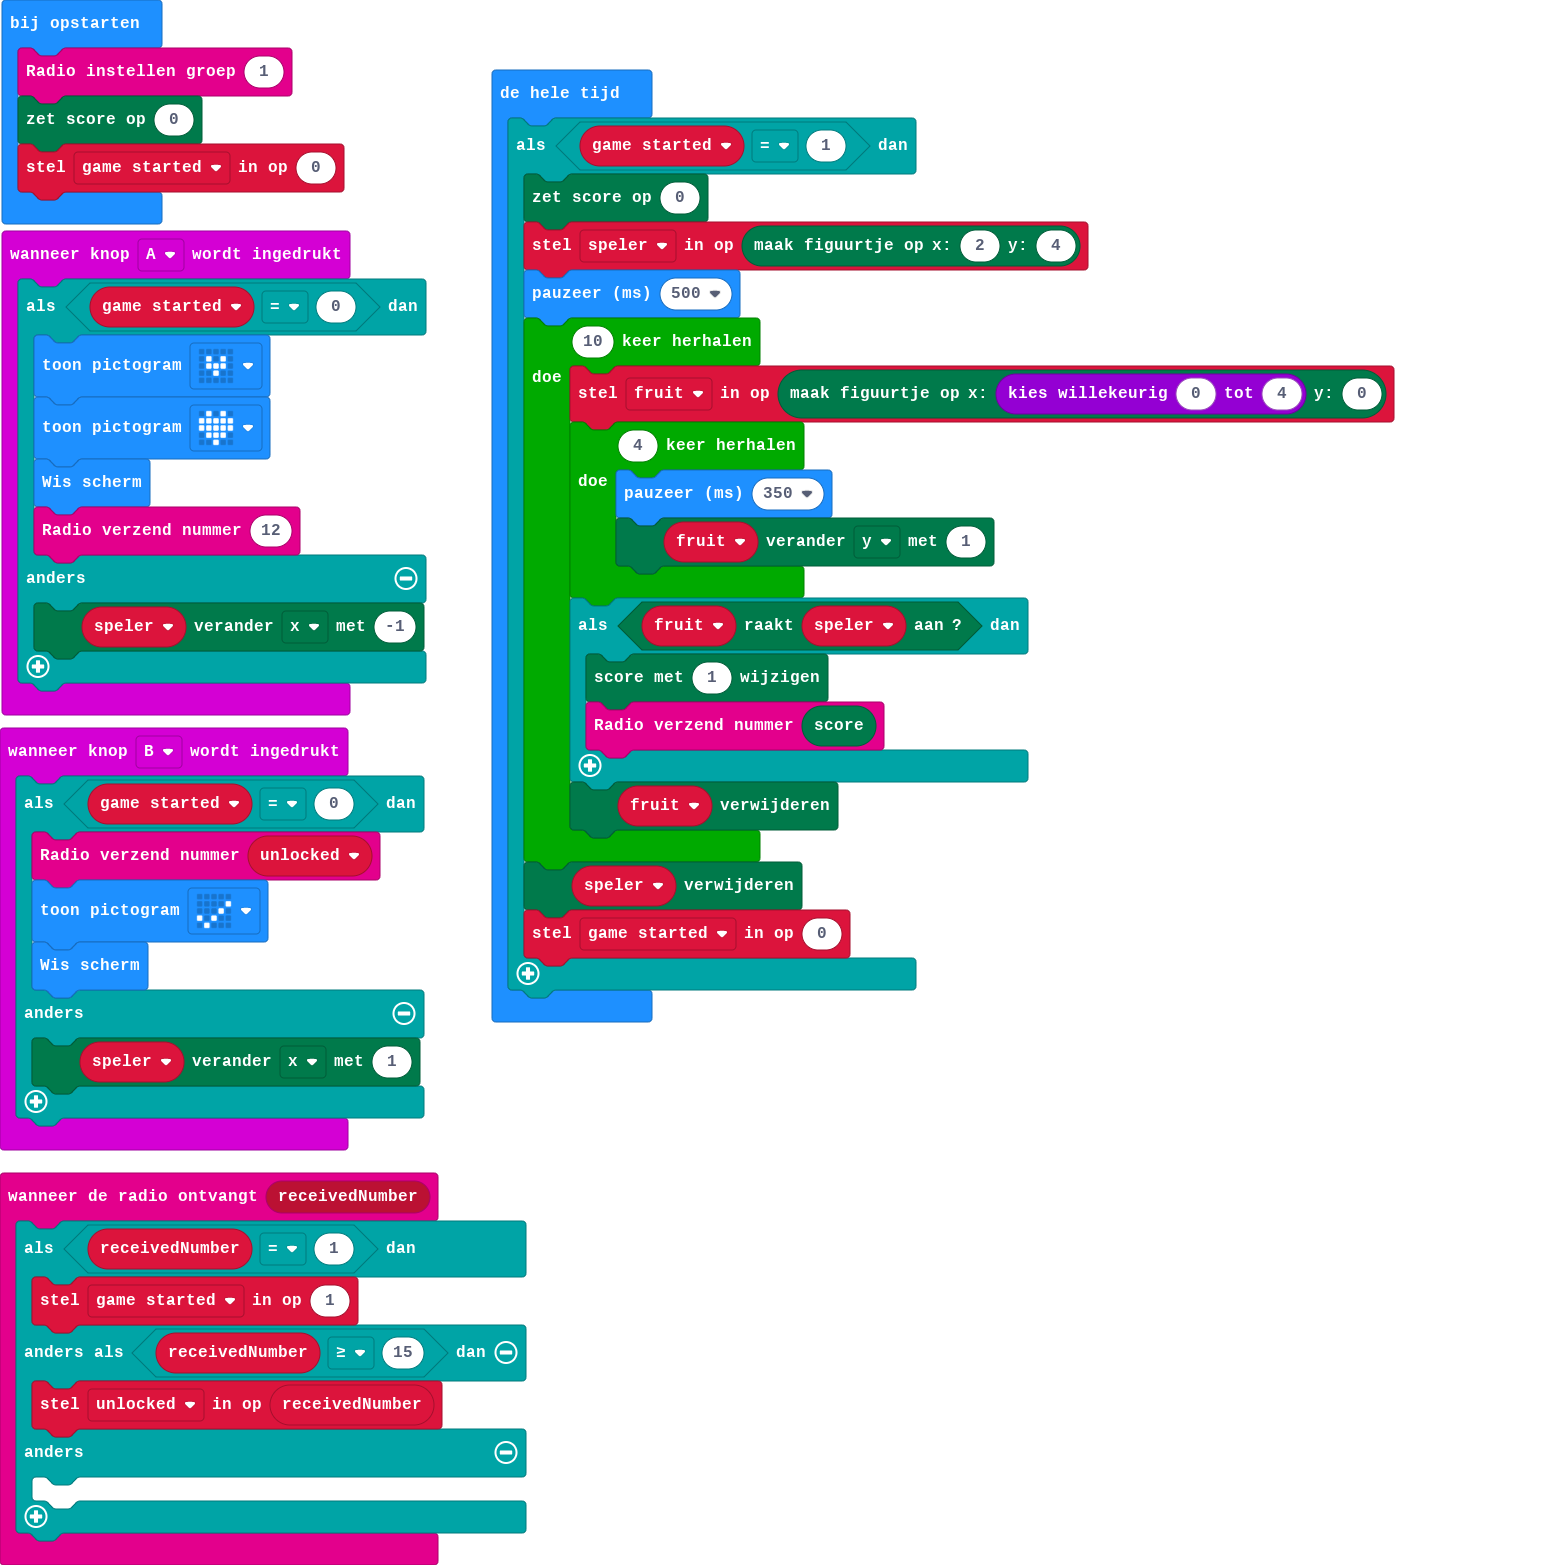
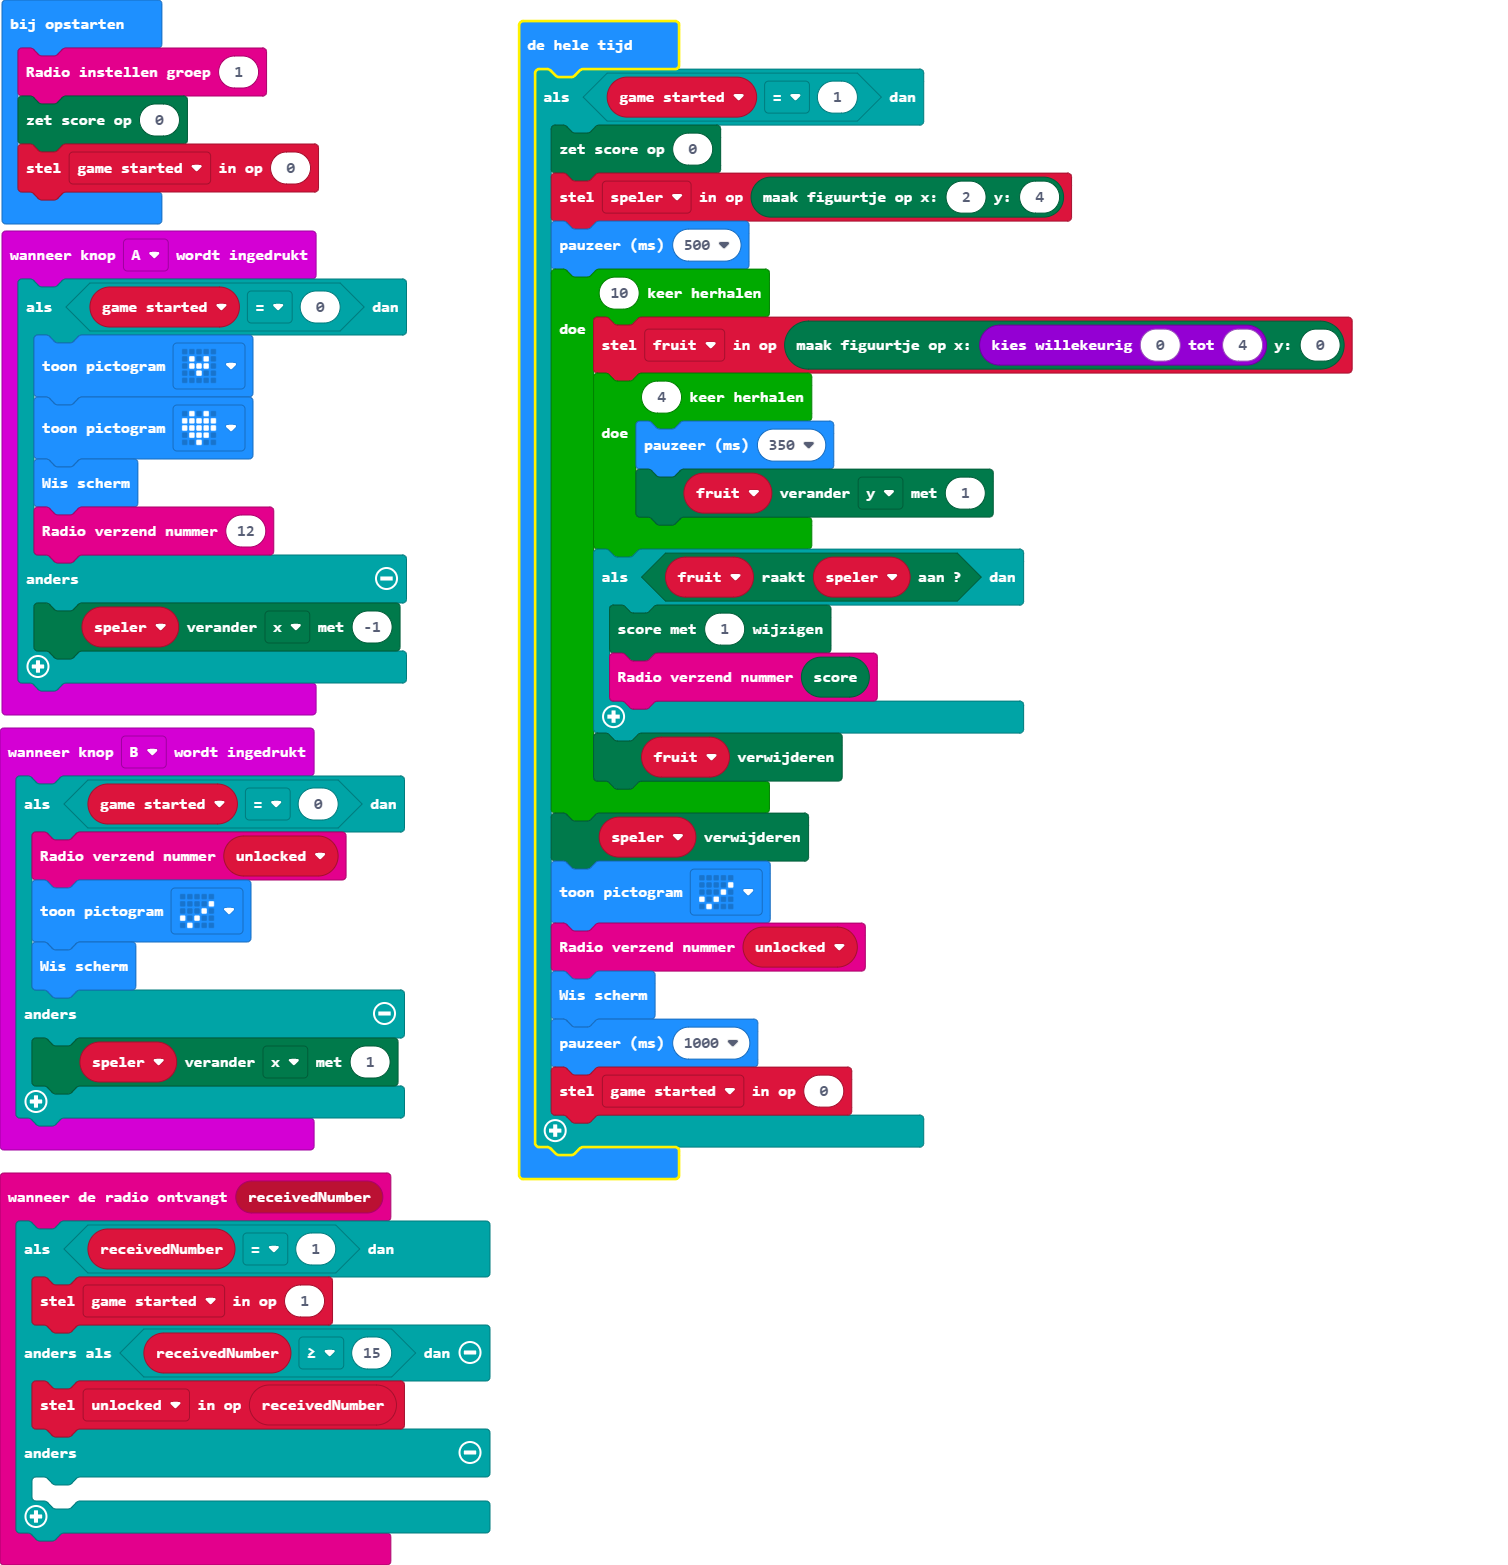
pxt.json, main.blocks, main.ts bijwerken

diff --git a/main.ts b/main.ts
@@ -51,6 +51,10 @@ basic.forever(function () {
             fruit.delete()
         }
         speler.delete()
+        basic.showIcon(IconNames.Yes)
+        radio.sendNumber(unlocked)
+        basic.clearScreen()
+        basic.pause(1000)
         game_started = 0
     }
 })
